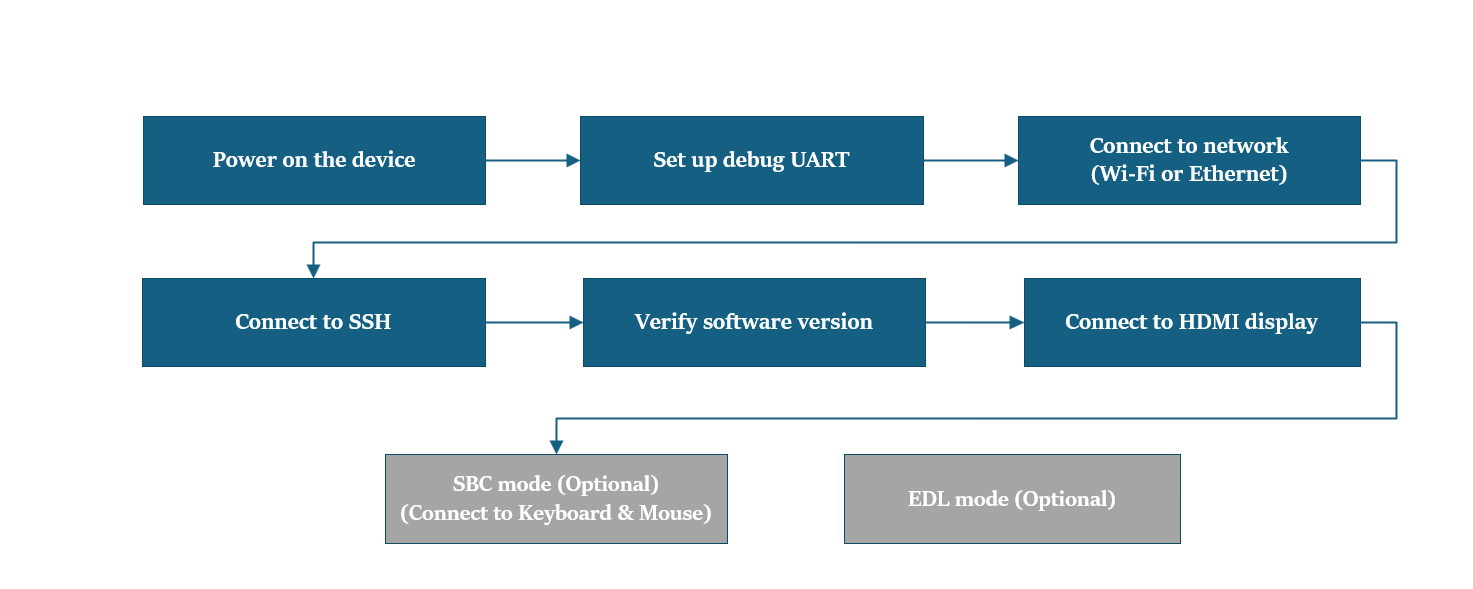
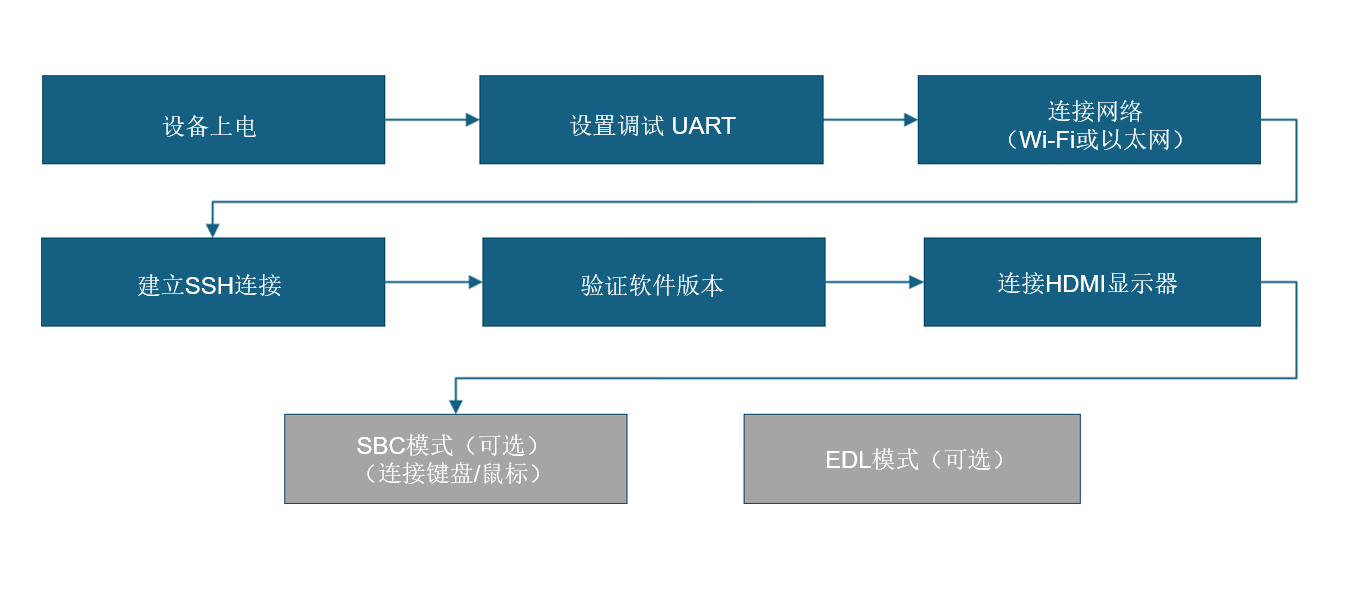
fixed format

diff --git a/docs/2.set-up-your-device.md b/docs/2.set-up-your-device.md
@@ -3,7 +3,7 @@ import TabItem from '@theme/TabItem';
 
 # 设备设置
 
-本章是在**Ubuntu**、**Windows®**和**macOS®**环境中设置**魔方派 3 **开发板的简化指南。无论您是第一次打开设备电源、配置调试 UART 进行串行访问，还是建立网络和 SSH 连接，本章确保顺畅可靠的入门体验。  
+本章是在**Ubuntu**、**Windows®**和**macOS®**环境中设置**魔方派 3**开发板的简化指南。无论您是第一次打开设备电源、配置调试串口进行访问，还是建立网络和 SSH 连接，本章确保顺畅可靠的入门体验。  
 此外本章还涵盖了一些关键步骤，例如进入**EDL 模式** 进行固件刷新和验证您的**Ubuntu 24.04** 安装，这是 AI、多媒体和嵌入式开发工作流程的基础。
 
 ###  让我们开始吧！
@@ -16,7 +16,7 @@ import TabItem from '@theme/TabItem';
 
 连接 12V、3A Type-C 电源适配器。  
 :::warning 
-魔方派 3 支持 Power Delivery (PD) 3.0 电源输入。**请使用支持**12V 3A PD 3.0协议的Type-C**接口电源适配器。**经验证的配件列表，请见[外设兼容列表](https://www.thundercomm.com/rubik-pi-3/en/docs/peripheral-compatibility-list)。
+魔方派 3 支持 Power Delivery (PD) 3.0 电源输入。**请使用支持12V 3A PD 3.0协议的Type-C 接口电源适配器**。经验证的配件列表，请见[外设兼容列表](https://www.thundercomm.com/rubik-pi-3/en/docs/peripheral-compatibility-list)。
 
 如果电源适配器满足要求并且电源协商成功，电源端口附近的电源指示灯 LED 将亮起。如果适配器不符合要求，LED 将保持熄灭状态，并且设备将无法启动。
 ::: 
@@ -30,7 +30,7 @@ import TabItem from '@theme/TabItem';
 ![](./images/20250728-124347.jpg)
 
 :::note 
-如果开发板上的蓝色 LED 持续亮起，则表示电源按钮按下的时间过长，并且开发板处于fastboot模式。请参阅[**FAQ**](./11.Troubleshooting/4.troubleshooting.md#how-do-i-exit-fastboot-mode-on-the-rubik-pi-3)退出fastboot模式。
+如果开发板上的蓝色 LED 持续亮起，则表示电源按钮按下的时间过长，并且开发板处于fastboot模式。请参阅[**FAQ**](./11.Troubleshooting/4.troubleshooting.md#如何在魔方派-3-上退出fastboot模式)退出fastboot模式。
 :::
 
 <a id="setUART"></a>
@@ -46,7 +46,7 @@ import TabItem from '@theme/TabItem';
 2⃣将Micro-USB线的另一端连接到主机。根据主机操作系统，按照以下说明之一进行操作。
 
 <Tabs>
-<TabItem value="Ubuntuhost" label="Ubuntu host">
+<TabItem value="Ubuntuhost" label="Ubuntu 主机">
 1⃣运行以下命令来安装用于访问 UART 控制台的屏幕。
 
 ```shell
@@ -75,17 +75,16 @@ sudo screen <serial_port> <baud_rate>
 示例：`sudo screen /dev/ttyACM0 115200`  
 4⃣打开调试UART接口，按Enter键显示身份验证提示。  
 5⃣如果设备上已经刷入了 Canonical Ubuntu，请通过 UART 控制台登录并继续重置用户密码。  
-\* 帐户：`ubuntu`\* 密码： `ubuntu`
+- 帐户：`ubuntu`
+- 密码： `ubuntu`
 
 :::tip 
-如果无法正常登录，请检查您的魔方派 3 是否已升级到 Ubuntu 24.04。详细升级步骤请参考[更新软件](./3.Update-Software/index.md)。
+- 如果无法正常登录，请检查您的魔方派 3 是否已升级到 Ubuntu 24.04。详细升级步骤请参考[更新软件](./3.Update-Software/index.md)。
+- 如果您没有按预期看到身份验证控制台，请检查 USB 连接。如有必要，请断开并重新连接 Micro USB 线。
 :::
 
-:::tip
-如果您没有按预期看到身份验证控制台，请检查 USB 连接。如有必要，请断开并重新连接 Micro USB 线。
-::: 
 </TabItem>
- <TabItem value="winhost" label="Windows host">
+ <TabItem value="winhost" label="Windows 主机">
 
 1⃣为您的 Windows 主机下载[PuTTY](https://www.chiark.greenend.org.uk/~sgtatham/putty/)。确保选择正确的版本（32 位或 64 位）。  
 2⃣运行安装向导并按照提示进行操作。  
@@ -99,29 +98,27 @@ sudo screen <serial_port> <baud_rate>
 如果未检测到 UART 端口，请下载驱动程序并使用 Windows 设备管理器进行更新：
 
 * x86 系统：[USB 转 UART 串行驱动程序](https://ftdichip.com/wp-content/uploads/2023/09/CDM-v2.12.36.4-WHQL-Certified.zip)。
-* Arm(®) 系统：访问 https://oemdrivers.com/usb-ft232r-usb-uart-arm64。单击**Drivers**下面的**FTDI CDM VCP Drivers**。
+* Arm(®) 系统：访问 https://oemdrivers.com/usb-ft232r-usb-uart-arm64。单击 **Drivers** 下面的 **FTDI CDM VCP Drivers**。
 :::
 
-1. 将波特率设置为115200。
-2. 单击**Open**启动PuTTY会话。
+3. 将波特率设置为115200。
+4. 单击**Open**启动PuTTY会话。
 
     ![](./images/image-3.jpg)
 
 5⃣打开串口设备并按**Enter**弹出身份验证提示。  
 6⃣登录UART控制台，按照提示重置密码。
 
-    * Account: `ubuntu`    
-    * Password: `ubuntu`  
+    - Account: `ubuntu`    
+    - Password: `ubuntu`  
 
 :::tip 
-如果无法正常登录，请检查您的魔方派 3 是否已升级到 Ubuntu 24.04。详细升级步骤请参考[更新软件](./3.Update-Software/index.md)。
+- 如果无法正常登录，请检查您的魔方派 3 是否已升级到 Ubuntu 24.04。详细升级步骤请参考[更新软件](./3.Update-Software/index.md)。
+- 如果您没有按预期看到身份验证控制台，请检查 USB 连接。如有必要，请断开并重新连接 Micro USB 线。
 :::
-
-:::tip 
-如果您没有按预期看到身份验证控制台，请检查 USB 连接。如有必要，请断开并重新连接 Micro USB 线。
-::: 
+ 
 </TabItem> 
-<TabItem value="machost" label="macOS host">
+<TabItem value="machost" label="macOS 主机">
 
 1⃣运行以下命令检查连接到 macOS 主机的串口设备。
 
@@ -143,16 +140,14 @@ ls /dev/cu.*
 
 4⃣打开串口设备并按**Enter**弹出身份验证提示。  
 5⃣登录UART控制台，按照提示重置密码。  
-\* 帐户：`ubuntu`  
-\* 密码：  `ubuntu`
+- 帐户：`ubuntu`  
+- 密码：  `ubuntu`
 
 :::tip 
-如果无法正常登录，请检查您的魔方派 3 是否已升级到 Ubuntu 24.04。详细升级步骤请参考[更新软件](./3.Update-Software/index.md)。
+- 如果无法正常登录，请检查您的魔方派 3 是否已升级到 Ubuntu 24.04。详细升级步骤请参考[更新软件](./3.Update-Software/index.md)。
+- 如果您没有按预期看到身份验证控制台，请检查 USB 连接。如有必要，请断开并重新连接 Micro USB 线。
 :::
 
-:::tip  
-如果您没有按预期看到身份验证控制台，请检查 USB 连接。如有必要，请断开并重新连接 Micro USB 线。
-::: 
 </TabItem> 
 </Tabs>
 
@@ -163,7 +158,7 @@ ls /dev/cu.*
 使用以下方法之一建立互联网连接并获取设备的 IP 地址。
 
 <Tabs>
-<TabItem value="WiFi" label="Connect using Wi-Fi">
+<TabItem value="WiFi" label="Wi-Fi 连接">
 设备在 Wi-Fi 站点模式下运行。设备启动时，初始化Wi-Fi主机驱动程序并执行网络管理认证。用户可以使用nmcli命令行工具建立无线连接。
 
 1⃣运行以下命令连接到无线接入点（Wi-Fi路由器）：
@@ -204,7 +199,7 @@ sudo nmcli dev wifi connect <WiFi-SSID> password <WiFi-password>
      ```
 
  </TabItem>
-   <TabItem value="ETH" label="Connect using Ethernet">
+   <TabItem value="ETH" label="Ethernet 连接">
 1⃣将以太网电线缆的一端连接到魔方派 3 上的以太网端口（RJ45），另一端连接到网络路由器。
 
 ![](./images/image-5.jpg)
@@ -274,7 +269,7 @@ ssh <user name>@ip-address
     ```
 
 :::note 
-根据您当前的软件版本选择[**合适的软件升级**。](https://www.thundercomm.com/rubik-pi-3/en/docs/rubik-pi-3-user-manual/1.0.0-u/Update-Software)  
+根据您当前的软件版本选择[**合适的软件升级**](./3.Update-Software/index.md) 。
 :::
 
 ## 连接 HDMI 显示器

diff --git a/docs/4.peripherals-and-interfaces/2.usb.md b/docs/4.peripherals-and-interfaces/2.usb.md
@@ -13,6 +13,10 @@ import TabItem from '@theme/TabItem';
 
 * 一个 USB 3.1 Gen 1 C 口，可以作为主机或设备模式（常用于 ADB），以及 DP 显示使用，如下图 5。
 
+:::note
+在 Ubuntu 24.04 V1.0.0 版本中暂不支持 DP 功能。该功能支持将在未来的版本中提供。
+:::
+
 ![](../images/image-125.jpg)
 
 ## USB 接口功能验证
@@ -222,54 +226,6 @@ import TabItem from '@theme/TabItem';
     Captured 10 frames in 1.589346 seconds (6.291895 fps, 11597220.863435 B/s).
     8 buffers released.
     ```
-
-    **使用 Qualcomm IM SDK 中的 GStreamer 配置 USB 摄像头**
-
-    Qualcomm IM SDK 采用开源多媒体框架 [GStreamer](https://gstreamer.freedesktop.org/) 公开了多媒体和机器学习这两个领域简洁的 API 和易用的插件。有关安装 Qualcomm IM SDK 的信息，请参阅  
-
-Qualcomm IM SDK 包含 v4l2src 插件，该插件允许以选定的格式从 USB 摄像头进行输入。waylandsink 插件负责在 Wayland 显示界面上渲染视频输出。
-
-    前提条件：USB 摄像头输出格式和大小已确定。
-
-    1. 要设置 Wayland 显示界面的环境变量，在魔方派 3 终端中运行以下命令。
-    ```shell
-    export XDG_RUNTIME_DIR=/dev/socket/weston && export WAYLAND_DISPLAY=wayland-1
-    ```
-    2.使用 GStreamer 命令将摄像头拍摄的视频流传输到 UI。确保已设置合适的设备 ID (*/dev/videoX*)，并根据检测到的 USB 摄像头选择正确的格式。
-    :::note
-    在 GStreamer 中，YUYV 颜色格式被称为 YUY2。因此，您必须在设置管道时指定 YUYV 格式并在 caps 过滤器中使用 **YUY2**。
-    :::
-        * 对于 720p，运行以下命令：
-        ```shell
-        gst-launch-1.0 -e v4l2src io-mode=dmabuf-import device="/dev/video0" ! video/x-raw,format=YUY2,width=1280,height=720,framerate=10/1 ! waylandsink fullscreen=true
-        ```
-        随即显示以下输出。
-        ```
-        Y2,width=1280,height=720,framerate=10/1 ! waylandsink fullscreen=true
-        Setting pipeline to PAUSED ...
-        I/Adreno-UNKNOWN (1985,1985): <ReadGpuID:357>: Reading chip ID through GSL
-        GBM_INFO::msmgbm_mapper(262)::gbm mapper instantiated
-        gbm_create_device(224): Info: backend name is: msm_drm
-        Pipeline is live and does not need PREROLL ...
-        Pipeline is PREROLLED ...
-        Setting pipeline to PLAYING ...
-        New clock: GstSystemClock
-        gbm_create_device(224): Info: backend name is: msm_drm
-        GBM_ERR::msmgbm_bo_create(870)::DRM_IOCTL_PRIME_FD_TO_HANDLE failed for data fd errono: 22 (Invalid argument) drm fd: 24 data fd: 26
-         GBM_ERR::msmgbm_bo_create(923)::DRM_IOCTL_PRIME_FD_TO_HANDLE failed for metadata fd errono: 22 (Invalid argument) drm fd: 24 metadata fd: 27
-        GBM_ERR::msmgbm_bo_create(870)::DRM_IOCTL_PRIME_FD_TO_HANDLE failed for data fd errono: 22 (Invalid argument) drm fd: 24 data fd: 29
-        GBM_ERR::msmgbm_bo_create(923)::DRM_IOCTL_PRIME_FD_TO_HANDLE failed for metadata fd errono: 22 (Invalid argument) drm fd: 24 metadata fd: 30
-        GBM_ERR::msmgbm_bo_create(870)::DRM_IOCTL_PRIME_FD_TO_HANDLE failed for data fd errono: 22 (Invalid argument) drm fd: 24 data fd: 32
-        GBM_ERR::msmgbm_bo_create(923)::DRM_IOCTL_PRIME_FD_TO_HANDLE failed for metadata fd errono: 22 (Invalid argument) drm fd: 24 metadata fd: 33
-        GBM_ERR::msmgbm_bo_create(870)::DRM_IOCTL_PRIME_FD_TO_HANDLE failed for data fd errono: 22 (Invalid argument) drm fd: 24 data fd: 35
-        GBM_ERR::msmgbm_bo_create(923)::DRM_IOCTL_PRIME_FD_TO_HANDLE failed for metadata fd errono: 22 (Invalid argument) drm fd: 24 metadata fd: 36
-        Redistribute latency...
-        0:00:47.7 / 99:99:99.
-        ```
-        * 对于 1080p，运行以下命令：
-        ```shell
-        gst-launch-1.0 -e v4l2src io-mode=dmabuf-import device="/dev/video0" ! video/x-raw,format=YUY2,width=1920,height=1080,framerate=5/1 ! waylandsink fullscreen=true
-        ```
     </TabItem>
 </Tabs>
 
@@ -277,11 +233,12 @@ Qualcomm IM SDK 包含 v4l2src 插件，该插件允许以选定的格式从 USB
 
 本节提供有关获取调试日志的各种方法的信息。调试方式有 `regdumps` 、调试 `ftraces` 、 `configfs` 节点等。在调试与进入/退出低功耗模式、SMMU 故障、无时钟访问相关的问题时，可通过上述日志查看事件和控制器状态的详细信息。
 
-:::note
-下面命令需切换到 root 用户：
->
-> 执行 `sudo passwd root` 命令根据提示修改 root 帐号密码，使用 `su root` 命令切换到 root 用户。
-:::
+以下命令需要 root 权限。
+执行以下命令来获取 root 权限： 
+  ```shell
+sudo su
+```  
+如需退出 root 权限模式，只需输入`exit` 命令。  
 
 * USB 2.0 Type-A 设备路径：*&#x20;/sys/devices/platform/soc@0/**8c00000**.usb/xhci-hcd.1.auto/usb3/*
 
@@ -299,9 +256,9 @@ Qualcomm IM SDK 包含 v4l2src 插件，该插件允许以选定的格式从 USB
 
 :::warning
 >
-> 确保已挂载 `debugfs`。如果尚未挂载，可运行以下命令来挂载 `debugfs`:
+> 执行命令前，确保已挂载 `debugfs`。如果尚未挂载，可运行以下命令：
 >
-> `mount -t debugfs none /sys/kernel/debug`
+> `sudo mount -t debugfs none /sys/kernel/debug`
 :::
 
 ```shell

diff --git a/docs/4.peripherals-and-interfaces/3.csi.md b/docs/4.peripherals-and-interfaces/3.csi.md
@@ -1,4 +1,4 @@
-#摄像头串行接口（CSI）
+# 摄像头串行接口（CSI）
 
 目前魔方派 3 兼容的摄像头详见[外设兼容列表](https://www.thundercomm.com/rubik-pi-3/cn/docs/peripheral-compatibility-list)。下表显示了每个摄像头模块支持的分辨率：
 
@@ -62,35 +62,26 @@
 
 ![](../images/20250314-155452.jpg)
 
-* 前提准备
-    1. 将魔方派公共个人软件包档案 (PPA) 添加到您的魔方派 3 Ubuntu 软件源。
-        ```shell
-        sudo sed -i '$a deb http://apt.thundercomm.com/rubik-pi-3/noble ppa main' /etc/apt/sources.list
-        ```
-    2. 安装摄像头软件
-        ```shell
-        sudo apt update
-        sudo apt install -y qcom-ib2c qcom-camera-server qcom-camx
-        sudo apt install -y rubikpi3-cameras
-        sudo apt install gstreamer1.0-qcom-sample-apps
-        sudo chmod -R 777 /opt
-        sudo mkdir -p /var/cache/camera/
-        sudo touch /var/cache/camera/camxoverridesettings.txt
-        echo  enableNCSService=FALSE >> /var/cache/camera/camxoverridesettings.txt
-        ```
-    3. 重启。
-        ```shell
-        sudo reboot
-        ```
-* 拍照测试
+## 前提准备
+    
+**在目标设备上**  
+   * **Ubuntu 操作系统** 已刷入  
+   * 需要启用具有适当权限的**终端访问**。  
+   * 如果您之前没有安装PPA包，请按照以下步骤进行安装。    
+   ```shell
+	git clone -b ubuntu_setup --single-branch https://github.com/rubikpi-ai/rubikpi-script.git 
+	cd rubikpi-script  
+	./install_ppa_pkgs.sh 
+	```
+
+* 测试拍照
     ```shell
-    # CAM1, 生成物为 /opt/img0_123.jpg
+    # CAM1, output file /opt/img0_123.jpg
     gst-launch-1.0 -e qtiqmmfsrc camera=0 ! video/x-raw,format=NV12,width=1280,height=720,framerate=30/1 ! queue ! jpegenc ! queue ! multifilesink location=/opt/img0_%d.jpg max-files=5
 
-    # CAM2, 生成物为 /opt/img1_123.jpg
+    # CAM2, output file /opt/img1_123.jpg
     gst-launch-1.0 -e qtiqmmfsrc camera=1 ! video/x-raw,format=NV12,width=1280,height=720,framerate=30/1 ! queue ! jpegenc ! queue ! multifilesink location=/opt/img1_%d.jpg max-files=5
     ```
-
 
 ## 摄像头故障排除
 

diff --git a/docs/1.Get familiar.md b/docs/1.Get familiar.md
@@ -33,7 +33,17 @@ import Tabs from '@theme/Tabs'; import TabItem from '@theme/TabItem';
 
 ![](./images/data-3.svg)
 
-![](./images/image-2.jpg)
+| 编号 | 接口                     | 编号 | 接口                  |
+|------|--------------------------|------|-----------------------|
+| 1    | RTC 电池接口             | 10   | Type-C电源接口        |
+| 2    | Micro USB (UART 调试)    | 11   | PWR 按键             |
+| 3    | TurboX C6490P SOM        | 12   | EDL 按键             |
+| 4    | 3.5mm 耳机接口           | 13   | 摄像头接口 2         |
+| 5    | USB Type-C with DP (USB 3.1) | 14 | 摄像头接口 1         |
+| 6    | USB Type-A (USB 2.0)     | 15   | Wi-Fi/蓝牙模块       |
+| 7    | 2 x USB Type-A (USB 3.0) | 16   | 风扇接口             |
+| 8    | 1000M 以太网            | 17   | 40-pin 连接器        |
+| 9    | HDMI OUT                 | 18   | M.2 Key M 接口       |
 
 ### 设置魔方派 3 所需的部件
 

diff --git a/docs/4.peripherals-and-interfaces/1.40-pin-ls-connector.md b/docs/4.peripherals-and-interfaces/1.40-pin-ls-connector.md
@@ -30,14 +30,9 @@ import TabItem from '@theme/TabItem';
     <TabItem value="GPIO Shell" label="Shell 命令" default>
     在魔方派 3 中执行下面的步骤控制 GPIO。
     :::note
-    下面命令需要使用 root 权限：
+    下面的命令需要 root 权限。
 
-     * 使用 `sudo -i` 命令切换到 root 用户。
-
-        或
-
-     * 在普通用户下，在命令前加入 `sudo` ，如 `sudo gpio readall`，根据提示输入用户的登录密码。
-    :::
+    * 使用 `sudo su` 命令切换到 root 权限用户。
 
     * 使用 WiringRP 相关命令
 
